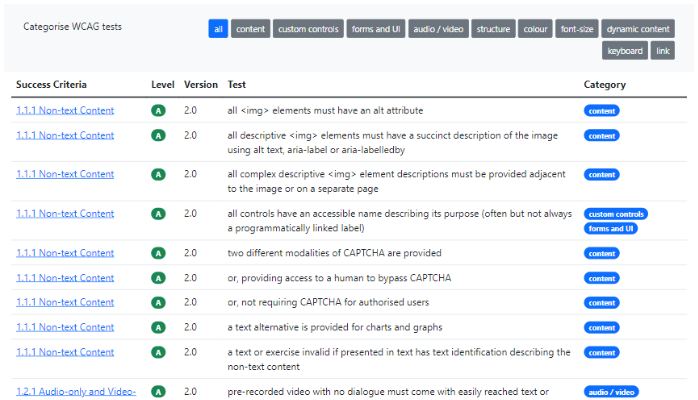
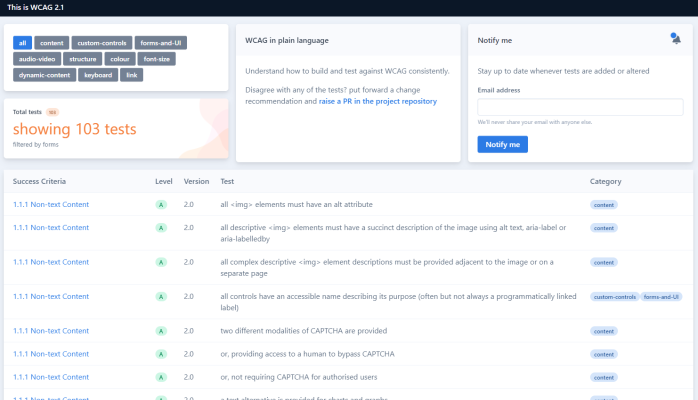
added animation effect and altered the content

diff --git a/index.html b/index.html
@@ -1,7 +1,7 @@
 <!doctype html>
 <html lang="en-AU">
 <head>
-<title>This is WCAG 2.1</title>
+<title>This is WCAG</title>
 
 <meta charset="utf-8">
 <meta name="viewport" content="width=device-width, initial-scale=1">
@@ -38,6 +38,7 @@
 
 <link href="./css/bootstrap.min.css" rel="stylesheet">
 <link href="./css/theme.css" rel="stylesheet">
+<link href="./css/animation.css" rel="stylesheet">
 
 </head>
 
@@ -109,7 +110,8 @@ td:nth-child(1) {width:310px}
 						</div>
 					</div>
 					<div class="card-body">
-						<p>Understand how to build and test against WCAG consistently.</p>
+						<p>Build and test against WCAG consistently by understanding what is a failure against each success criteria.</p>
+						<p>These tests help you focus on the relevant criteria you need to apply and test against.</p>
 						<p>Disagree with any of the tests? put forward a change recommendation and <strong><a href="https://github.com/canaxess/wcag-filter-tool">raise a PR in the project repository</a></strong></p>
 					</div>
 				</div>
@@ -122,15 +124,14 @@ td:nth-child(1) {width:310px}
 								<h2>Notify me</h2>
 							</div>
 							<div class="col-2">
-								<div class="">
-								<!--<div class="notification-indicator notification-indicator-primary">-->
-									<svg class="svg-inline--fa fa-bell fa-w-14 fs-4" data-fa-transform="shrink-6" aria-hidden="true" focusable="false" data-prefix="fas" data-icon="bell" role="img" xmlns="http://www.w3.org/2000/svg" viewBox="0 0 448 512" data-fa-i2svg="" style="transform-origin: 0.4375em 0.5em;"><g transform="translate(224 256)"><g transform="translate(0, 0)  scale(0.625, 0.625)  rotate(0 0 0)"><path fill="currentColor" d="M224 512c35.32 0 63.97-28.65 63.97-64H160.03c0 35.35 28.65 64 63.97 64zm215.39-149.71c-19.32-20.76-55.47-51.99-55.47-154.29 0-77.7-54.48-139.9-127.94-155.16V32c0-17.67-14.32-32-31.98-32s-31.98 14.33-31.98 32v20.84C118.56 68.1 64.08 130.3 64.08 208c0 102.3-36.15 133.53-55.47 154.29-6 6.45-8.66 14.16-8.61 21.71.11 16.4 12.98 32 32.1 32h383.8c19.12 0 32-15.6 32.1-32 .05-7.55-2.61-15.27-8.61-21.71z" transform="translate(-224 -256)"></path></g></g></svg>
+								<div id="notification" class="">
+									<svg class="bell svg-inline--fa fa-bell fa-w-14 fs-4" data-fa-transform="shrink-6" aria-hidden="true" focusable="false" data-prefix="fas" data-icon="bell" role="img" xmlns="http://www.w3.org/2000/svg" viewBox="0 0 448 512" data-fa-i2svg=""><g transform="translate(224 256)"><g transform="translate(0, 0)  scale(0.625, 0.625)  rotate(0 0 0)"><path fill="currentColor" d="M224 512c35.32 0 63.97-28.65 63.97-64H160.03c0 35.35 28.65 64 63.97 64zm215.39-149.71c-19.32-20.76-55.47-51.99-55.47-154.29 0-77.7-54.48-139.9-127.94-155.16V32c0-17.67-14.32-32-31.98-32s-31.98 14.33-31.98 32v20.84C118.56 68.1 64.08 130.3 64.08 208c0 102.3-36.15 133.53-55.47 154.29-6 6.45-8.66 14.16-8.61 21.71.11 16.4 12.98 32 32.1 32h383.8c19.12 0 32-15.6 32.1-32 .05-7.55-2.61-15.27-8.61-21.71z" transform="translate(-224 -256)"></path></g></g></svg>
 								</div>
 							</div>
 						</div>
 					</div>
 					<div class="card-body">
-						<p>Stay up to date whenever tests are added or altered</p>
+						<p>Stay up to date whenever tests are added and updated.</p>
 
[1 lines of base64/hex data omitted]
 							<div class="mb-3">
@@ -181,6 +182,7 @@ td:nth-child(1) {width:310px}
 <script src="./data/json.js" type="text/javascript"></script>
 <script src="./scripts/script.js" type="text/javascript"></script>
 <script src="./scripts/fontawesome/all.min.js" type="text/javascript"></script>
+<script src="./scripts/animation.js" type="text/javascript"></script>
 <script src="https://js.createsend1.com/javascript/copypastesubscribeformlogic.js" type="text/javascript"></script>
 
 </html>

diff --git a/css/animation.css b/css/animation.css
@@ -1,0 +1,27 @@
+#notification
+{
+    text-align: right;
+}
+
+.bell
+{
+    animation: animation 5000ms 2;
+    animation-delay: 5s;
+}
+
+@keyframes animation 
+{
+    0% { transform-origin: center top;transform: rotate(0deg);opacity:1; }
+    8.0% { transform-origin: center top;transform: rotate(0deg);opacity:1; }
+    12.0% { transform-origin: center top;transform: rotate(42deg);opacity:1; }
+    16.0% { transform-origin: center top;transform: rotate(-35deg);opacity:1; }
+    20.0% { transform-origin: center top;transform: rotate(0deg);opacity:1; }
+    23.0% { transform-origin: center top;transform: rotate(28deg);opacity:1; }
+    26.0% { transform-origin: center top;transform: rotate(-20deg);opacity:1; }
+    29.0% { transform-origin: center top;transform: rotate(0deg);opacity:1; }
+    31.0% { transform-origin: center top;transform: rotate(16deg);opacity:1; }
+    33.0% { transform-origin: center top;transform: rotate(-12deg);opacity:1; }
+    35.0% { transform-origin: center top;transform: rotate(0deg);opacity:1; }	
+    37.0% { transform-origin: center top;transform: rotate(-6deg);opacity:1; }
+    39.0% { transform-origin: center top;transform: rotate(0deg);opacity:1; }
+}

diff --git a/scripts/animation.js b/scripts/animation.js
@@ -1,0 +1,7 @@
+const animated = document.querySelector('.bell');
+const notification = document.getElementById('notification');
+
+animated.addEventListener('animationend', () => {
+    notification.classList.add('notification-indicator');
+    notification.classList.add('notification-indicator-primary');
+});
